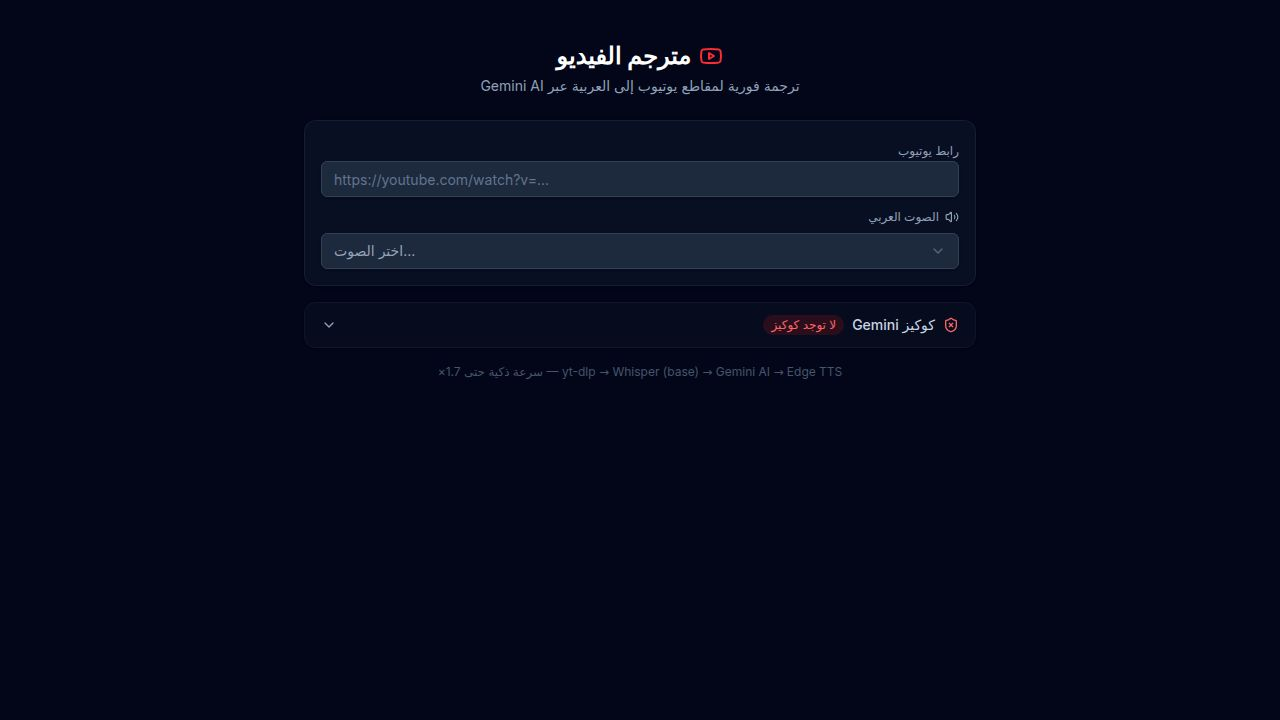
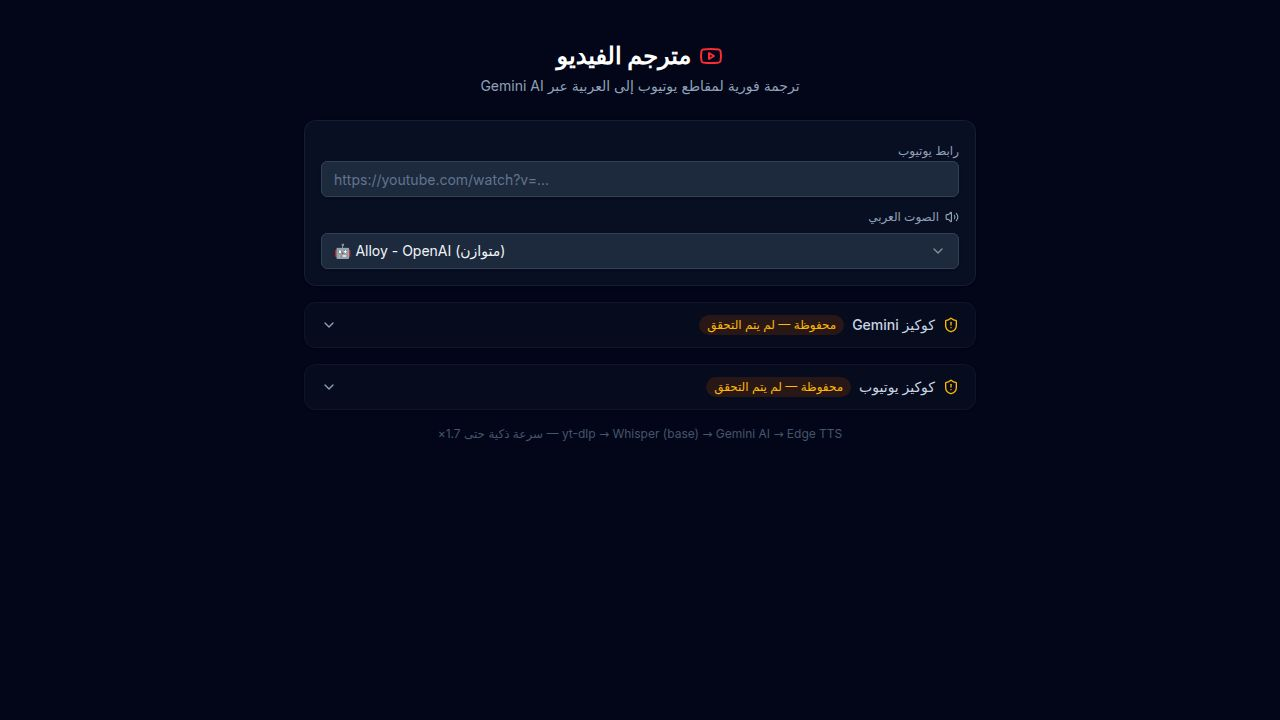
Improve video translation by fixing audio sync and word navigation
Implement retry logic for Gemini API calls, fix TTS audio-video sync issues, and enable precise word-by-word navigation with timestamp seeking.

Replit-Commit-Author: Agent
Replit-Commit-Session-Id: 77a7493c-77c4-4e45-99ce-58c324765b30
Replit-Commit-Checkpoint-Type: full_checkpoint
Replit-Commit-Event-Id: e1bbff70-2a62-42d9-8e45-a40859c4172d
Replit-Commit-Screenshot-Url: https://storage.googleapis.com/screenshot-production-us-central1/65e30ce5-bbaf-4275-85f0-19d924051683/77a7493c-77c4-4e45-99ce-58c324765b30/VHxp5pj
Replit-Helium-Checkpoint-Created: true

diff --git a/artifacts/video-translator/src/pages/Home.tsx b/artifacts/video-translator/src/pages/Home.tsx
@@ -130,11 +130,29 @@ function parseTranslationSegments(translation: string): {ts: number; text: strin
     const text = m[4].trim();
     if (text) segs.push({ ts, text });
   }
-  // If no timestamp format, treat whole text as one segment starting at t=0
   if (segs.length === 0 && translation.trim()) {
     segs.push({ ts: 0, text: translation.trim() });
   }
   return segs;
+}
+
+/** Per-word entry with interpolated timestamp */
+interface WordTiming { word: string; ts: number; }
+
+/** Build per-word timings by interpolating within each phrase's time span */
+function buildWordTimings(translation: string, segStart: number): WordTiming[] {
+  const segs = parseTranslationSegments(translation);
+  const result: WordTiming[] = [];
+  for (let i = 0; i < segs.length; i++) {
+    const nextTs = i + 1 < segs.length ? segs[i + 1].ts : segStart + SEGMENT_STRIDE;
+    const dur = Math.max(0.5, nextTs - segs[i].ts);
+    const wordsArr = segs[i].text.split(/\s+/).filter(Boolean);
+    wordsArr.forEach((w, wi) => result.push({
+      word: w,
+      ts: segs[i].ts + (wi / Math.max(1, wordsArr.length)) * dur,
+    }));
+  }
+  return result;
 }
 
 async function fetchCookieStatus(): Promise<CookieStatus> {
@@ -205,9 +223,9 @@ export default function Home() {
   const syncOffsetRef = useRef<number>(0);
   const [syncOffset, setSyncOffset] = useState<number>(0);
 
-  // ── Progressive text display ──────────────────────────────────────────────
-  const currentTranslationSegsRef = useRef<{ts: number; text: string}[]>([]);
-  const lastShownSentenceRef = useRef<string>('');
+  // ── Word-level display ────────────────────────────────────────────────────
+  const allWordsRef = useRef<WordTiming[]>([]);
+  const currentWordIndexRef = useRef<number>(-1);
 
   const [jobs, setJobs] = useState<Map<number, SegJob>>(new Map());
   const [activeSeg, setActiveSeg] = useState<number>(-1);
@@ -219,7 +237,8 @@ export default function Home() {
   const [selectedEngine] = useState<TranslationEngine>('openai');
   const [hasStarted, setHasStarted] = useState(false);
   const [isWaitingForProcess, setIsWaitingForProcess] = useState(false);
-  const [currentSentence, setCurrentSentence] = useState('');
+  const [currentWords, setCurrentWords] = useState<string[]>([]);
+  const [currentWordIdx, setCurrentWordIdx] = useState<number>(-1);
 
   const [showCookies, setShowCookies] = useState(false);
   const [cookieText, setCookieText] = useState('');
@@ -450,20 +469,30 @@ export default function Home() {
 
     playingSegRef.current = seg;
     segPlayStartMsRef.current = Date.now();
-    // Load segments for progressive display (don't show all text at once)
-    currentTranslationSegsRef.current = parseTranslationSegments(job.translation || '');
-    lastShownSentenceRef.current = '';
-    setCurrentSentence('');
+
+    // Build word timings for this segment and merge into allWordsRef
+    const newWords = buildWordTimings(job.translation || '', seg);
+    allWordsRef.current = [
+      ...allWordsRef.current.filter(w => w.ts < seg || w.ts >= seg + SEGMENT_STRIDE),
+      ...newWords,
+    ].sort((a, b) => a.ts - b.ts);
+    // Reset word pointer — runLoop will advance it via audio time
+    currentWordIndexRef.current = -1;
+    setCurrentWordIdx(-1);
+    if (newWords.length > 0) setCurrentWords(allWordsRef.current.map(w => w.word));
 
     audioEl.onloadedmetadata = () => applySyncRates(audioEl);
 
     audioEl.onended = () => {
       finishedSegRef.current = seg;
-      currentTranslationSegsRef.current = [];
-      lastShownSentenceRef.current = '';
-      setCurrentSentence('');
+      // ── Don't clear words/display — keep showing last word until next segment starts ──
       if (ytRef.current) ytRef.current.setPlaybackRate(1.0);
+
+      // Save standby state BEFORE we clear it (gapless bug fix)
+      const wasStandbyReady = standbyReadyRef.current;
+      const savedStandbyUrl = standbyUrlRef.current;
       standbyReadyRef.current = false;
+      standbyUrlRef.current = '';
 
       if (!isRunningRef.current) return;
 
@@ -472,8 +501,8 @@ export default function Home() {
 
       const sb = getStandbyAudio();
       const canGapless =
-        standbyReadyRef.current &&
-        standbyUrlRef.current === nextJob.audioUrl &&
+        wasStandbyReady &&
+        savedStandbyUrl === nextJob.audioUrl &&
         sb !== null &&
         sb.readyState >= 2;
 
@@ -481,13 +510,17 @@ export default function Home() {
         getActiveAudio()?.pause();
         swapSlot();
         const nowActive = getActiveAudio()!;
-        standbyUrlRef.current = '';
-        standbyReadyRef.current = false;
-        playingSegRef.current = -1;
 
-        currentTranslationSegsRef.current = parseTranslationSegments(nextJob.translation || '');
-        lastShownSentenceRef.current = '';
-        setCurrentSentence('');
+        // Build word timings for next segment
+        const nextWords = buildWordTimings(nextJob.translation || '', nextSeg);
+        allWordsRef.current = [
+          ...allWordsRef.current.filter(w => w.ts < nextSeg || w.ts >= nextSeg + SEGMENT_STRIDE),
+          ...nextWords,
+        ].sort((a, b) => a.ts - b.ts);
+        currentWordIndexRef.current = -1;
+        setCurrentWordIdx(-1);
+        if (nextWords.length > 0) setCurrentWords(allWordsRef.current.map(w => w.word));
+
         playingSegRef.current = nextSeg;
         segPlayStartMsRef.current = Date.now();
 
@@ -495,9 +528,6 @@ export default function Home() {
         nowActive.onloadedmetadata = () => applySyncRates(nowActive);
         nowActive.onended = () => {
           finishedSegRef.current = nextSeg;
-          currentTranslationSegsRef.current = [];
-          lastShownSentenceRef.current = '';
-          setCurrentSentence('');
           if (ytRef.current) ytRef.current.setPlaybackRate(1.0);
           standbyReadyRef.current = false;
           playingSegRef.current = -1;
@@ -516,17 +546,42 @@ export default function Home() {
     preloadNextIntoStandby(seg);
   }, [applySyncRates, preloadNextIntoStandby]);
 
-  const seekToSegment = (offset: number) => {
-    if (!ytRef.current) return;
-    const currentTime = ytRef.current.getCurrentTime();
-    const newTime = Math.max(0, Math.floor(currentTime / SEGMENT_STRIDE) * SEGMENT_STRIDE + (offset * SEGMENT_STRIDE));
-    playingSegRef.current = -1; finishedSegRef.current = -1;
-    standbyUrlRef.current = ''; standbyReadyRef.current = false;
-    getActiveAudio()?.pause();
-    getStandbyAudio()?.pause();
-    if (ytRef.current) ytRef.current.setPlaybackRate(1.0);
-    ytRef.current.seekTo(newTime, true);
-  };
+  const navigateWord = useCallback((delta: -1 | 1) => {
+    const words = allWordsRef.current;
+    if (words.length === 0 || !ytRef.current) return;
+
+    const currIdx = currentWordIndexRef.current;
+    const startIdx = currIdx < 0 ? (delta === 1 ? 0 : 0) : currIdx;
+    const newIdx = Math.max(0, Math.min(words.length - 1, startIdx + delta));
+
+    const targetTs = words[newIdx].ts;
+    currentWordIndexRef.current = newIdx;
+    setCurrentWordIdx(newIdx);
+
+    // Seek video to word timestamp
+    ytRef.current.seekTo(targetTs, true);
+
+    // Seek audio proportionally to match word position
+    const audioEl = getActiveAudio();
+    const seg = playingSegRef.current;
+    if (audioEl && audioEl.duration > 0 && seg >= 0) {
+      const offsetInSeg = Math.max(0, targetTs - seg);
+      const audioTarget = Math.min((offsetInSeg / SEGMENT_STRIDE) * audioEl.duration, audioEl.duration - 0.1);
+      audioEl.currentTime = Math.max(audioTarget, 0);
+    }
+
+    // If target is in a different segment, reset audio so runLoop picks up new segment
+    const targetSeg = Math.floor(targetTs / SEGMENT_STRIDE) * SEGMENT_STRIDE;
+    if (seg >= 0 && targetSeg !== seg) {
+      playingSegRef.current = -1;
+      finishedSegRef.current = -1;
+      standbyUrlRef.current = '';
+      standbyReadyRef.current = false;
+      getActiveAudio()?.pause();
+      getStandbyAudio()?.pause();
+      if (ytRef.current) ytRef.current.setPlaybackRate(1.0);
+    }
+  }, []);
 
   const startTranslation = useCallback(async () => {
     if (!ytRef.current || !isValid || !selectedVoice) return;
@@ -534,8 +589,12 @@ export default function Home() {
     setIsRunning(true); setHasStarted(true); setIsWaitingForProcess(false);
     jobsRef.current.clear(); kickCountRef.current.clear(); lastRetryRef.current.clear(); syncJobs();
     standbyUrlRef.current = ''; standbyReadyRef.current = false;
-    // Reset sync offset on new session
+    // Reset sync offset and word state on new session
     syncOffsetRef.current = 0; setSyncOffset(0);
+    allWordsRef.current = [];
+    currentWordIndexRef.current = -1;
+    setCurrentWordIdx(-1);
+    setCurrentWords([]);
     const dur = ytRef.current.getDuration() || duration;
 
     const runLoop = async () => {
@@ -543,17 +602,25 @@ export default function Home() {
       while (!stopRequestedRef.current) {
         const currentTime = ytRef.current?.getCurrentTime() ?? 0;
 
-        // ── Progressive text display: show segment matching current video time ─
-        const tranSegs = currentTranslationSegsRef.current;
-        if (tranSegs.length > 0) {
-          let matched: {ts: number; text: string} | null = null;
-          for (const s of tranSegs) {
-            if (s.ts <= currentTime) matched = s;
+        // ── Word display: driven by audio time for accurate TTS sync ──────────
+        const words = allWordsRef.current;
+        if (words.length > 0) {
+          const audioEl = getActiveAudio();
+          let effectiveTs: number;
+          if (audioEl && !audioEl.paused && !audioEl.ended && audioEl.duration > 0 && playingSegRef.current >= 0) {
+            // Use audio time as source of truth — matches what's being spoken
+            effectiveTs = playingSegRef.current + (audioEl.currentTime / audioEl.duration) * SEGMENT_STRIDE;
+          } else {
+            effectiveTs = currentTime;
+          }
+          let bestIdx = -1;
+          for (let i = 0; i < words.length; i++) {
+            if (words[i].ts <= effectiveTs) bestIdx = i;
             else break;
           }
-          if (matched && matched.text !== lastShownSentenceRef.current) {
-            lastShownSentenceRef.current = matched.text;
-            setCurrentSentence(matched.text);
+          if (bestIdx >= 0 && bestIdx !== currentWordIndexRef.current) {
+            currentWordIndexRef.current = bestIdx;
+            setCurrentWordIdx(bestIdx);
           }
         }
 
@@ -612,6 +679,10 @@ export default function Home() {
     standbyUrlRef.current = ''; standbyReadyRef.current = false;
     activeSegRef.current = -1; setActiveSeg(-1);
     segPlayStartMsRef.current = 0;
+    allWordsRef.current = [];
+    currentWordIndexRef.current = -1;
+    setCurrentWordIdx(-1);
+    setCurrentWords([]);
   }, []);
 
   const handleCookieChange = (text: string) => {
@@ -797,15 +868,33 @@ export default function Home() {
             </div>
 
             <AnimatePresence>
-              {isRunning && currentSentence && (
+              {isRunning && currentWords.length > 0 && (
                 <motion.div initial={{ opacity: 0, y: 10 }} animate={{ opacity: 1, y: 0 }} exit={{ opacity: 0 }}
                   className="px-4 py-3 bg-black/70 border-t border-white/10">
-                  <p className="text-white text-center text-base font-medium leading-relaxed">{currentSentence}</p>
+                  {/* Word-by-word display — current word highlighted */}
+                  <div className="flex flex-wrap gap-x-1.5 gap-y-1 justify-center leading-relaxed min-h-[2rem]">
+                    {currentWords.map((word, i) => {
+                      const isCurrent = i === currentWordIdx;
+                      const isPast = currentWordIdx >= 0 && i < currentWordIdx;
+                      return (
+                        <span key={i} className={`text-base font-medium transition-colors duration-75 ${
+                          isCurrent
+                            ? 'text-yellow-300 font-bold underline underline-offset-2'
+                            : isPast
+                            ? 'text-slate-500'
+                            : 'text-white'
+                        }`}>
+                          {word}
+                        </span>
+                      );
+                    })}
+                  </div>
+                  {/* Prev / Next word navigation */}
                   <div className="flex justify-center gap-4 mt-2">
-                    <Button size="sm" variant="ghost" onClick={() => seekToSegment(-1)} className="text-slate-300 hover:text-white hover:bg-white/10">
+                    <Button size="sm" variant="ghost" onClick={() => navigateWord(-1)} className="text-slate-300 hover:text-white hover:bg-white/10">
                       <ChevronRight className="w-4 h-4 ml-1" />السابق
                     </Button>
-                    <Button size="sm" variant="ghost" onClick={() => seekToSegment(1)} className="text-slate-300 hover:text-white hover:bg-white/10">
+                    <Button size="sm" variant="ghost" onClick={() => navigateWord(1)} className="text-slate-300 hover:text-white hover:bg-white/10">
                       التالي<ChevronLeft className="w-4 h-4 mr-1" />
                     </Button>
                   </div>

diff --git a/artifacts/api-server/src/routes/translate/gemini.ts b/artifacts/api-server/src/routes/translate/gemini.ts
@@ -101,7 +101,7 @@ export async function translateWithGemini(
       videoUrl: videoUrl ?? "",
       startTime: startTime ?? 0,
     }),
-    signal: AbortSignal.timeout(90_000),
+    signal: AbortSignal.timeout(200_000),
   });
 
   const data = await res.json() as { translation?: string; cleanText?: string; error?: string };

diff --git a/lib/api-zod/src/index.ts b/lib/api-zod/src/index.ts
@@ -1,2 +1,1 @@
 export * from "./generated/api";
-export * from "./generated/types";

diff --git a/artifacts/api-server/gemini_server.py b/artifacts/api-server/gemini_server.py
@@ -31,21 +31,59 @@ def parse_cookies(path: str) -> dict:
         pass
     return result
 
+async def _create_client():
+    from gemini_webapi import GeminiClient
+    cookies = parse_cookies(COOKIES_PATH)
+    psid = cookies.get("__Secure-1PSID", "")
+    psidts = cookies.get("__Secure-1PSIDTS", "")
+    if not psid:
+        raise ValueError("__Secure-1PSID غير موجود في ملف الكوكيز")
+    client = GeminiClient(secure_1psid=psid, secure_1psidts=psidts)
+    await client.init(timeout=60, auto_close=False, close_delay=3600, auto_refresh=True)
+    return client
+
 async def get_client():
     global _client
     async with _init_lock:
         if _client is not None:
             return _client
-        from gemini_webapi import GeminiClient
-        cookies = parse_cookies(COOKIES_PATH)
-        psid = cookies.get("__Secure-1PSID", "")
-        psidts = cookies.get("__Secure-1PSIDTS", "")
-        if not psid:
-            raise ValueError("__Secure-1PSID غير موجود في ملف الكوكيز")
-        client = GeminiClient(secure_1psid=psid, secure_1psidts=psidts)
-        await client.init(timeout=30, auto_close=False, close_delay=3600, auto_refresh=True)
-        _client = client
-        return client
+        _client = await _create_client()
+        return _client
+
+async def reset_client():
+    """Force-reset the client so next get_client() creates a fresh one."""
+    global _client
+    async with _init_lock:
+        if _client is not None:
+            try:
+                await _client.close()
+            except Exception:
+                pass
+        _client = None
+
+async def generate_with_retry(prompt: str, max_retries: int = 3) -> str:
+    """Call generate_content with per-attempt timeout and full client re-init on failure."""
+    last_err = None
+    for attempt in range(max_retries):
+        try:
+            client = await get_client()
+            # 55-second per-attempt timeout (fits within Node.js 90s AbortSignal)
+            raw = await asyncio.wait_for(
+                client.generate_content(prompt),
+                timeout=55.0,
+            )
+            text = (getattr(raw, "text", None) or "").strip()
+            if text:
+                return text
+            raise ValueError("نتيجة فارغة من Gemini")
+        except Exception as e:
+            last_err = e
+            print(f"[gemini] attempt {attempt + 1}/{max_retries} failed: {e}", flush=True)
+            if attempt < max_retries - 1:
+                # Force full re-initialization before retry
+                await reset_client()
+                await asyncio.sleep(2.0)
+    raise last_err
 
 def clean_response(text: str) -> str:
     """Remove common Gemini preambles/postambles that pollute the translation."""
@@ -248,10 +286,7 @@ async def handle_translate(request: web.Request) -> web.Response:
             "OUTPUT (inside ```text code block with [HH:MM:SS] timestamps):"
         )
 
-        response = await client.generate_content(prompt)
-        raw = (response.text or "").strip()
-        if not raw:
-            raise ValueError("نتيجة فارغة من Gemini")
+        raw = await generate_with_retry(prompt)
 
         # Extract content from markdown code block if Gemini wrapped it
         timestamped = extract_code_block(raw)
@@ -271,12 +306,8 @@ async def handle_translate(request: web.Request) -> web.Response:
         return web.json_response({"error": str(e)}, status=500)
 
 async def handle_reload(request: web.Request) -> web.Response:
-    global _client
     try:
-        if _client is not None:
-            try: await _client.close()
-            except: pass
-        _client = None
+        await reset_client()
         await get_client()
         return web.json_response({"ok": True, "message": "تم إعادة تهيئة عميل Gemini"})
     except Exception as e: